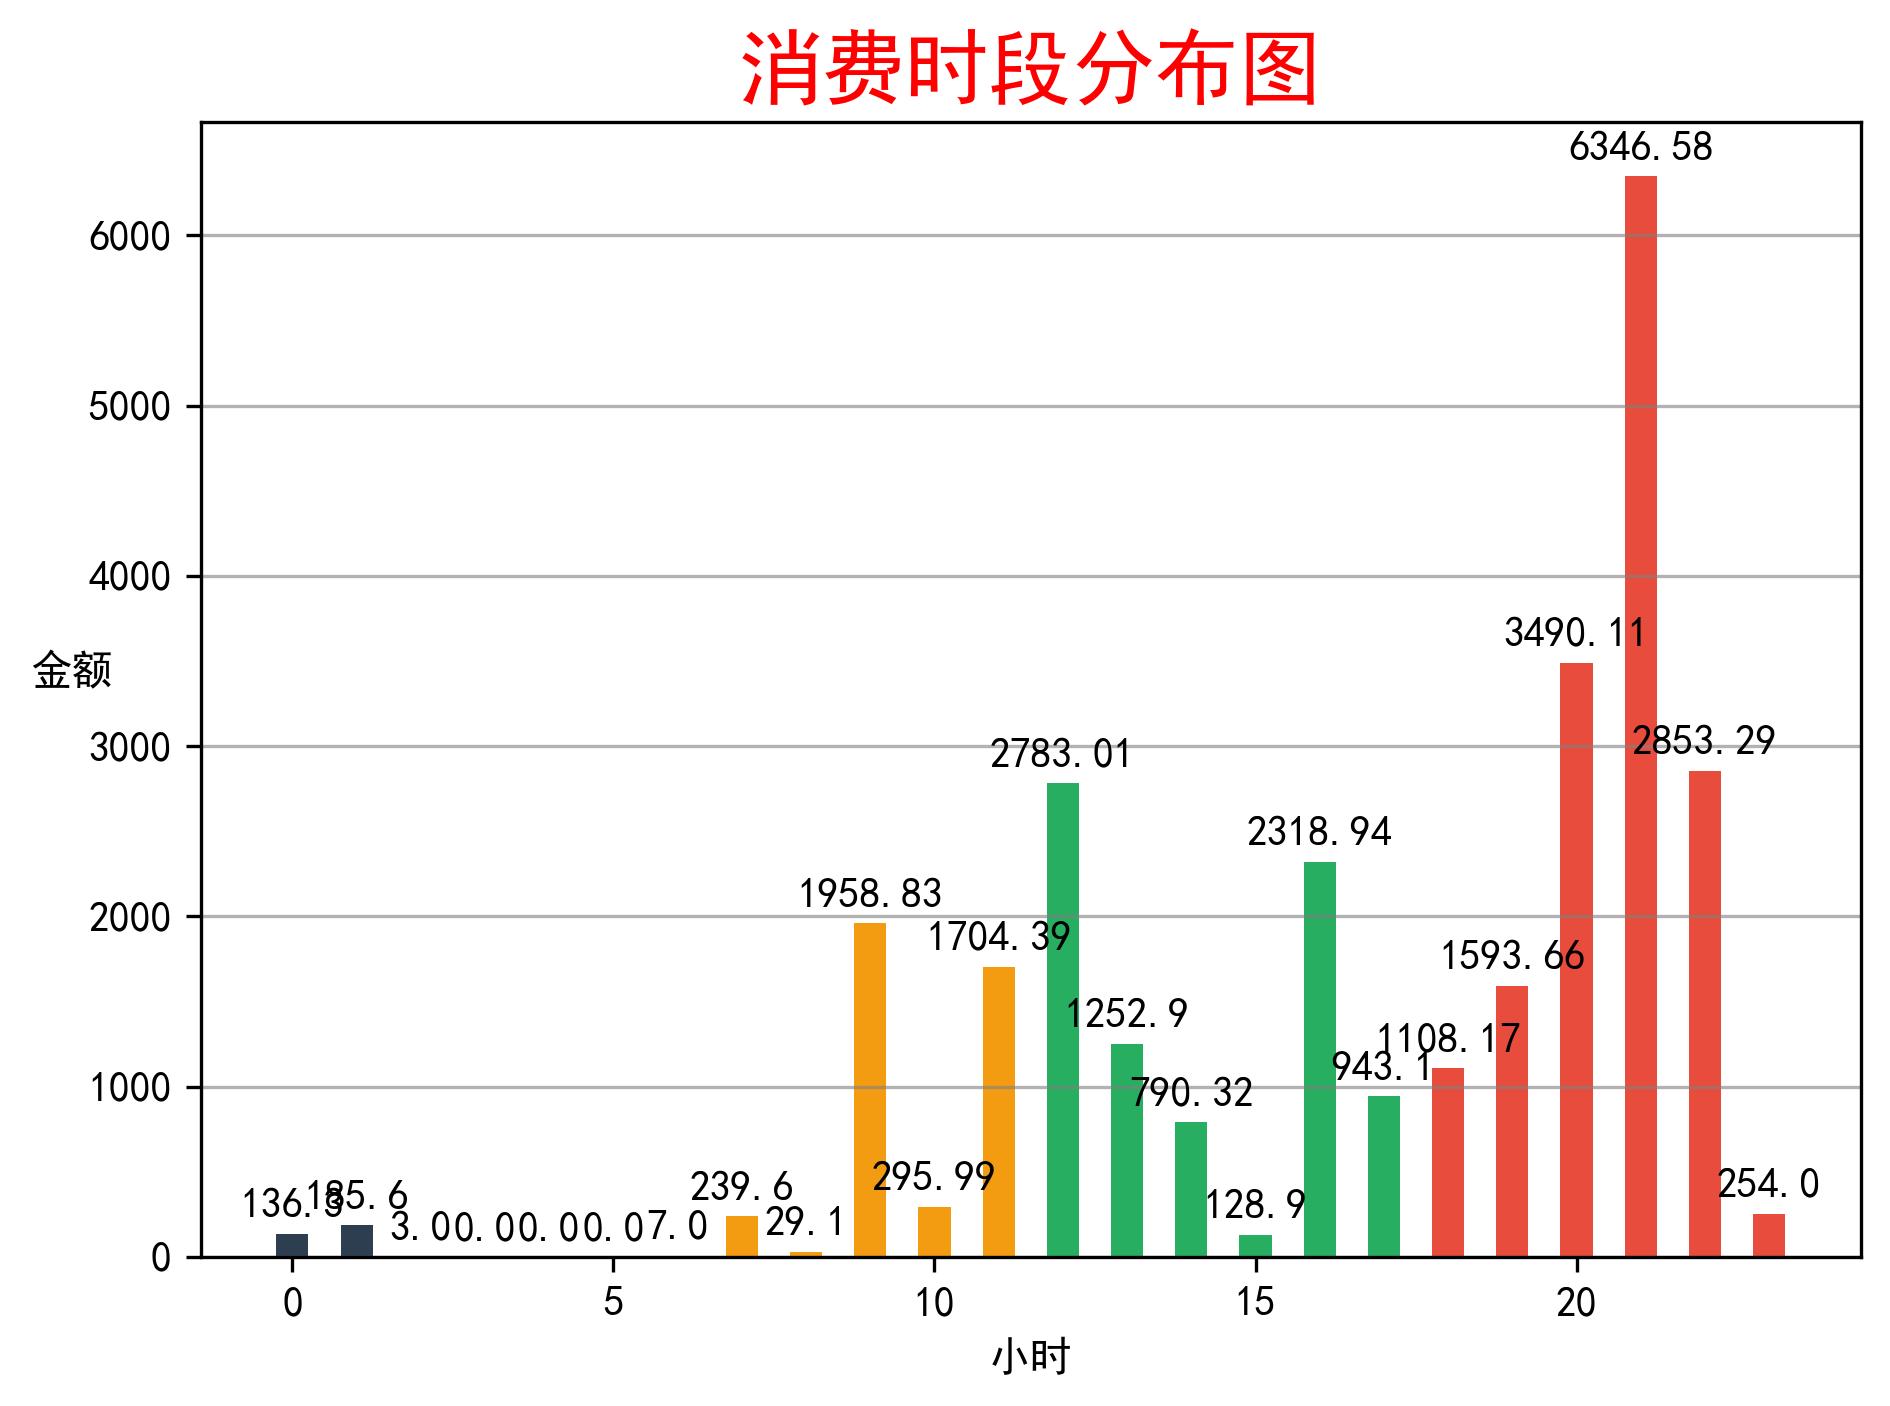
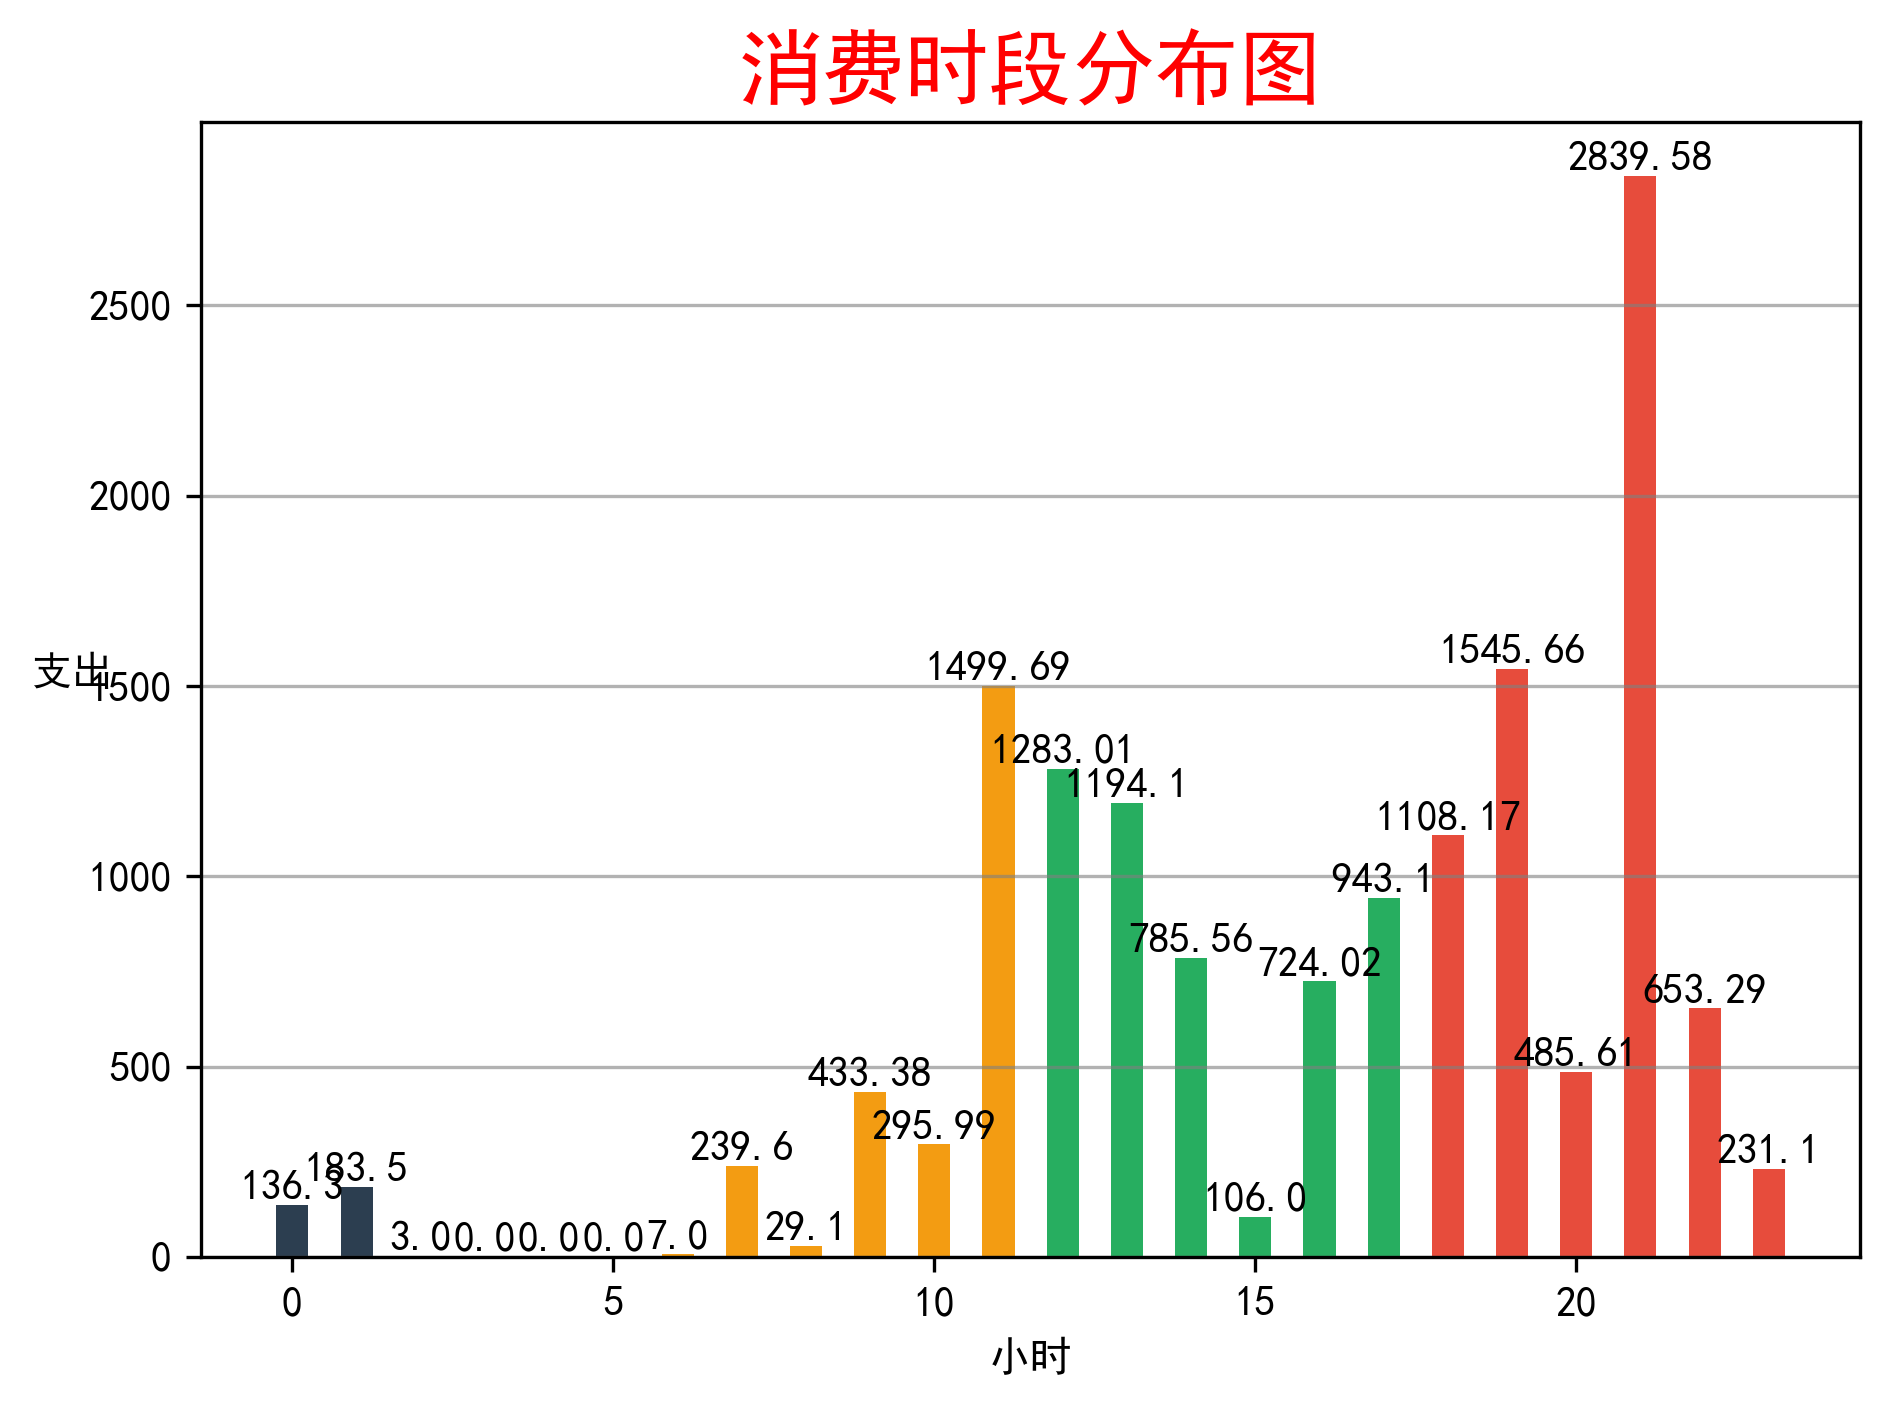
修改图2为消费时段分布

diff --git a/projects/wechat-bill/analysis.py b/projects/wechat-bill/analysis.py
@@ -5,7 +5,7 @@ import os
 def save_chart(filename):
     """保存图表到 results-pictures 文件夹"""
     base_dir = os.path.dirname(__file__)
-    save_dir = os.path.join(base_dir, 'results-pictures')
+    save_dir = os.path.join(BASE_DIR, 'results-pictures')
     os.makedirs(save_dir, exist_ok=True)
     
     plt.savefig(
@@ -19,7 +19,12 @@ from matplotlib import rcParams
 rcParams['font.family']= 'SimHei'
 #windows处理中文
 
-preview = pd.read_excel('projects/wechat-bill/datas.xlsx', header=None, nrows=50)#先截前50行找数据起点位置
+# 代码文件所在目录（E:\VScode\wechat-bill）
+BASE_DIR = os.path.dirname(os.path.abspath(__file__))
+
+# 拼接路径
+data_path = os.path.join(BASE_DIR, 'datas.xlsx')
+preview = pd.read_excel(data_path, header=None, nrows=50)#先截前50行找数据起点位置
 
 header_row = None
 for i in range(len(preview)):
@@ -29,12 +34,12 @@ for i in range(len(preview)):
     
 del preview #手动释放
 
-datas = pd.read_excel('projects/wechat-bill/datas.xlsx', header=header_row)#从列索引那一行开始读
+datas = pd.read_excel(data_path, header=header_row)#从列索引那一行开始读
 
-# print(datas.isna().sum())
+print(datas.isna().sum())
 # 空白检查，确认每列都没有空的
 
-# print(datas.duplicated().sum())
+print(datas.duplicated().sum())
 # 重复检查，确认没重复内容
 
 datas['交易年月']=datas['交易时间'].dt.to_period('M')
@@ -55,7 +60,7 @@ datas = datas[~datas['商品'].str.contains('/', na=False)]
 datas=datas.sort_values('交易年月')
 datasm=datas.groupby(['交易年月','收/支'],as_index=False)['金额(元)'].sum()
 #分组聚合，形成每个月总金额图
-print(datasm)
+#print(datasm)
 
 datasm_w=datasm.pivot(index='交易年月',columns='收/支',values='金额(元)')
 datasm_w=datasm_w.reset_index() #令交易年月从索引变为普通列，不然没法从列取时间
@@ -63,6 +68,7 @@ datasm_w.columns.name=None
 
 print(datasm_w)
 # 长表变宽表，分开收/支
+
 expend=datasm_w['支出'].round(2)
 income=datasm_w['收入'].round(2)
 
@@ -113,21 +119,34 @@ plt.tight_layout()
 save_chart("月度收支趋势图.png")
 plt.show()
 
-# 2.绘制交易时间条形图
+# 2.绘制消费时间条形图
 datas['交易小时']=datas['交易时间'].dt.hour
-datash=datas.groupby("交易小时")["金额(元)"].sum()
+datash=datas.groupby(["交易小时","收/支"],as_index=False)["金额(元)"].sum()
+#分组聚合成长表，分别每个小时的支出总和与收入总和
 
-# 补齐0-23小时，没有的填0
-datash = datash.reindex(range(24), fill_value=0)
+expend=datash[datash['收/支']=='支出'].round(2)
+#筛选支出总和，制成新表
 
-datash=datash.reset_index()
+expend=expend.pivot(index='交易小时',columns='收/支',values='金额(元)')
+#以交易小时为index,收/支为column(此时横轴只剩支出),金额为values制成新表
 
-print(datash)
-print(f"交易金额最大的小时:{datash.iloc[datash['金额(元)'].idxmax(),0]}")
-print(f"交易金额：{round(datash['金额(元)'].max(),2)}")
+expend=expend.reindex(range(24), fill_value=0)
+#存在有些时间段没有任何支出，需要在这里补齐0-23小时，没有的填0
 
-day_hours=datash["交易小时"]
-day_money=datash["金额(元)"].round(2)
+expend=expend.reset_index()
+#将'交易小时'从index变为普通列
+
+expend.columns.name=None
+#去掉columns.name收/支
+
+print(expend)
+
+
+print(f"消费金额最大的小时:{expend.iloc[expend['支出'].idxmax(),0]}")
+print(f"该小时消费总金额:{round(expend['支出'].max(),2)}")
+
+day_hours=expend["交易小时"]
+day_money=expend["支出"].round(2)
 
 colors = ['#2c3e50' if h < 6 else    # 凌晨深蓝
           '#f39c12' if h < 12 else   # 上午橙色
@@ -138,13 +157,12 @@ plt.bar(day_hours, day_money, color=colors, width=0.5)
 
 plt.title("消费时段分布图",fontsize=20,color="red")
 plt.xlabel("小时",fontsize=10,color="black")
-plt.ylabel("金额",fontsize=10,color="black",rotation=0)
+plt.ylabel("支出",fontsize=10,color="black",rotation=0)
 
 plt.grid(True, axis='y', alpha=0.6, color="gray")
 
-
 for x,y in enumerate(day_money):
-     plt.text(x,y+max(day_money)*0.01,str(y),ha="center",va="bottom",fontsize=10,color='black')
+     plt.text(x,y,str(y),ha="center",va="bottom",fontsize=10,color='black')
      
 plt.tight_layout()
 save_chart("消费时段分布图.png")